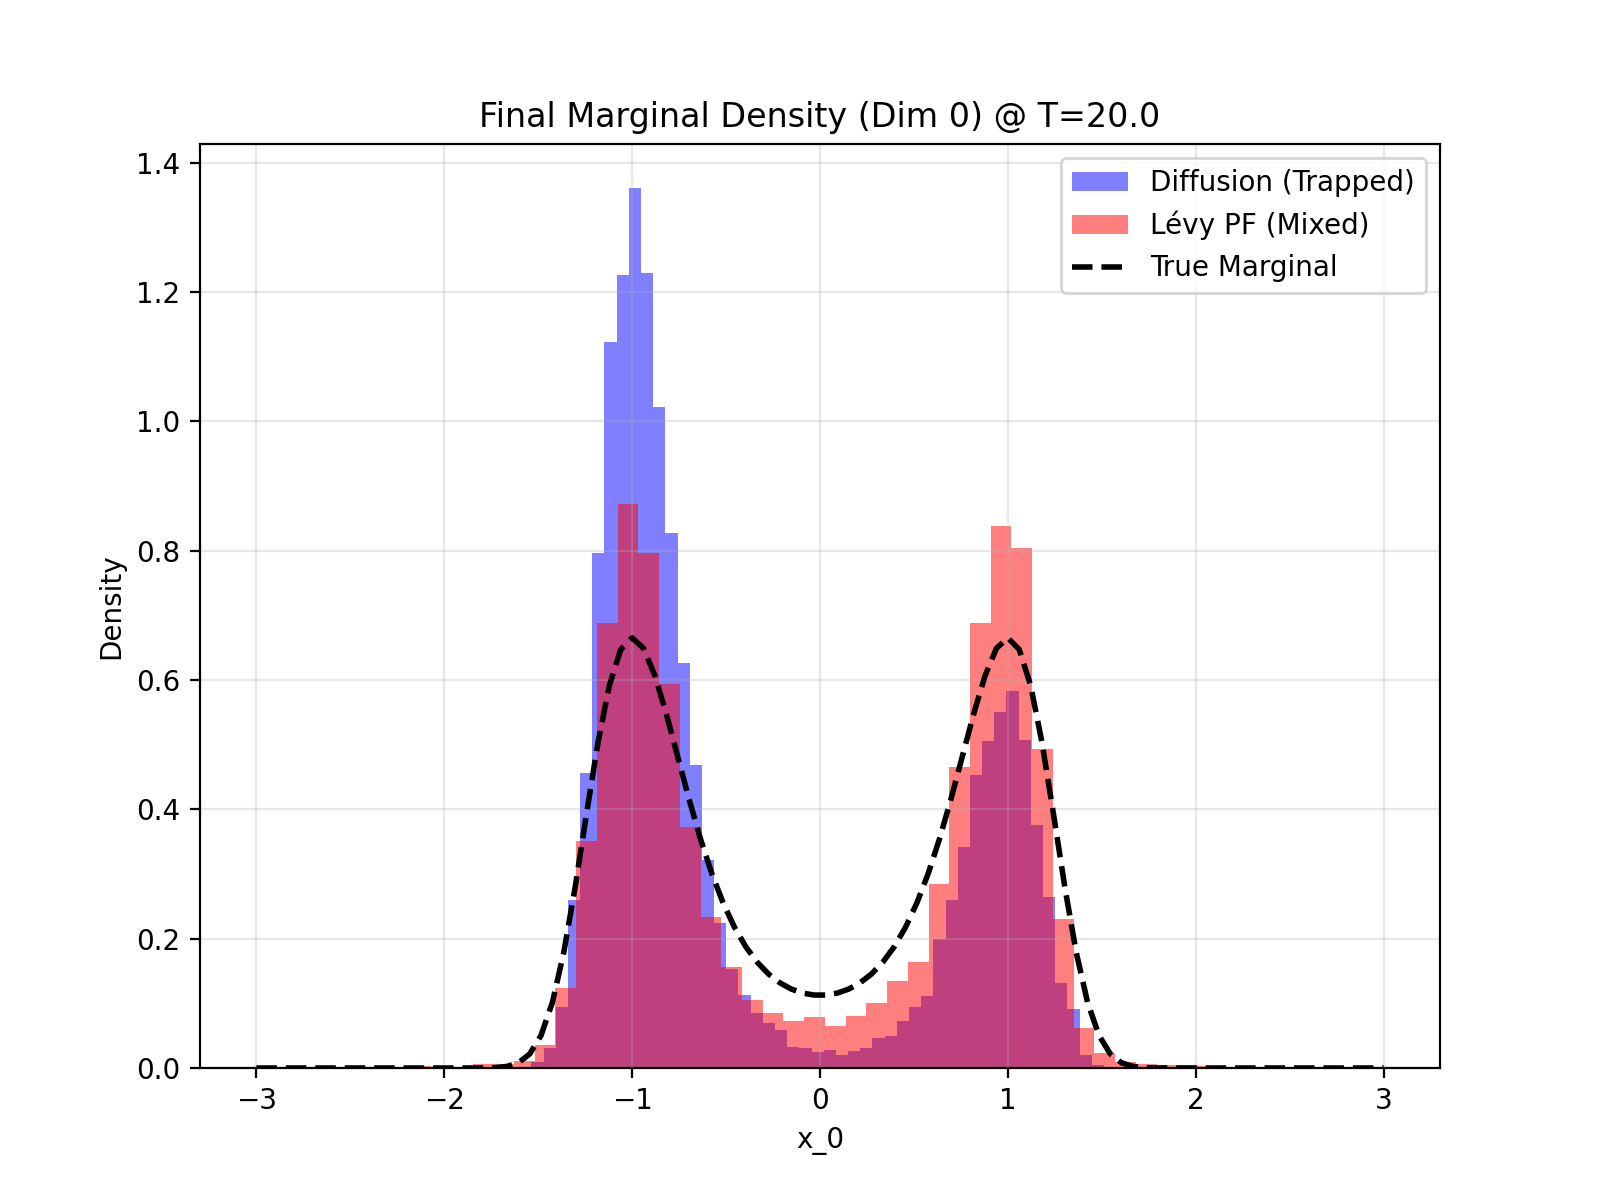
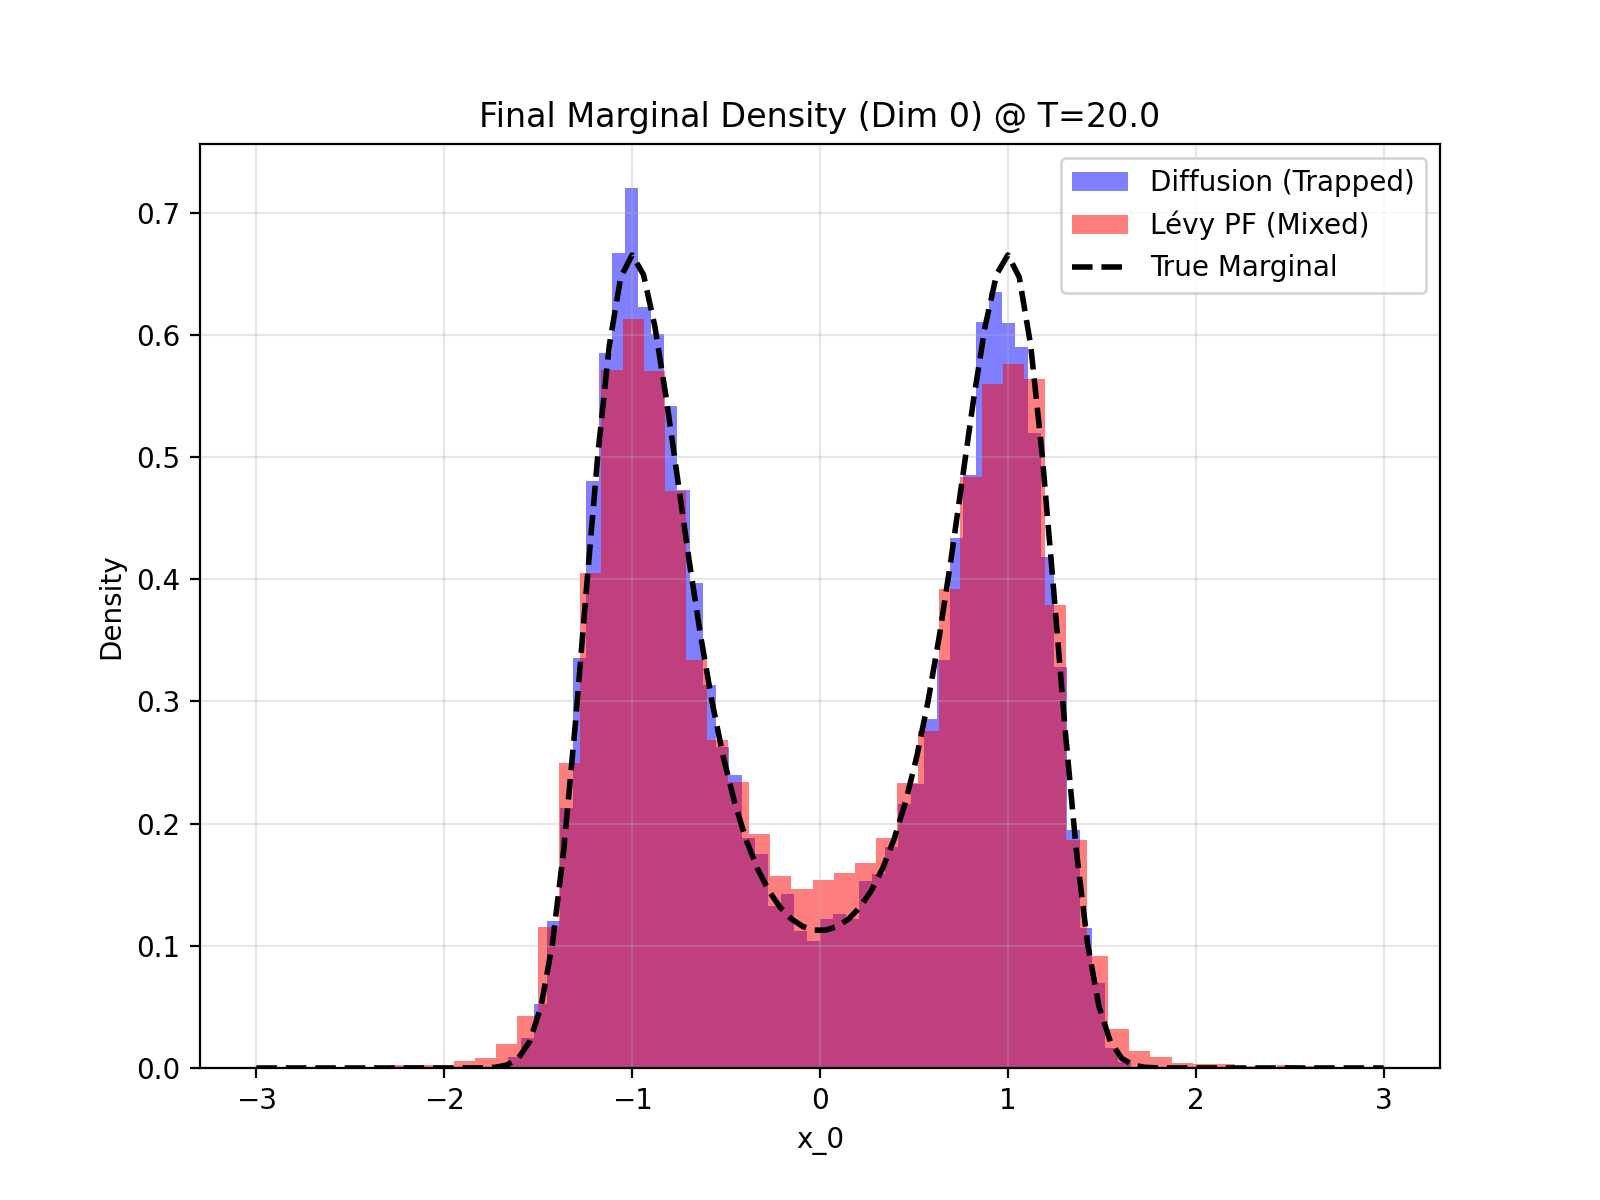
revise highdim

diff --git a/high_dim.py b/high_dim.py
@@ -25,6 +25,10 @@ def V_high_dim(X):
 def gradV_high_dim(X):
     return 4.0 * X * (X**2 - 1.0)
 
+def score_high_dim(X, eps):
+    # Score of target pi(x) ∝ exp(-V/eps^2)
+    return -gradV_high_dim(X) / (eps**2)
+
 # ============================================================
 # 2. Reference Sampler (Ground Truth)
 # ============================================================
@@ -116,26 +120,19 @@ def compute_marginal_errors(X, dim_idx, true_x, true_pdf):
 # ============================================================
 
 def step_diff(X, dt, eps, rng):
-    grad = gradV_high_dim(X)
+    # Score-based drift: b = (eps^2 / 2) * grad log pi, pi ∝ exp(-V/eps^2)
+    score = score_high_dim(X, eps)
+    drift = 0.5 * (eps**2) * score
     
-    # Taming (Prevent explosion)
-    norm_grad = np.linalg.norm(grad, axis=1, keepdims=True)
-    drift = -grad / (1.0 + dt * norm_grad) # Tamed Drift
-    
-    # Euler-Maruyama: dX = -gradV dt + sqrt(2)*eps*dW
-    # Note: Using sqrt(2) for standard Langevin dynamics scaling if we want pi ~ exp(-V/eps^2)
-    # If the equation is dX = -gradV dt + eps*dW, then pi ~ exp(-2V/eps^2)
-    # Let's stick to the convention in your previous code: eps * noise
+    # Euler-Maruyama: dX = b dt + eps dW
     noise = eps * np.sqrt(dt) * rng.standard_normal(X.shape)
     
     return X + drift * dt + noise
 
 def step_levy(X, dt, eps, rng, lam, sigma_L):
-    grad = gradV_high_dim(X)
-    
-    # 1. Diffusion Step (Same as above)
-    norm_grad = np.linalg.norm(grad, axis=1, keepdims=True)
-    drift = -grad / (1.0 + dt * norm_grad)
+    # 1. Diffusion Step (Score-based drift)
+    score = score_high_dim(X, eps)
+    drift = 0.5 * (eps**2) * score
     noise = eps * np.sqrt(dt) * rng.standard_normal(X.shape)
     X_new = X + drift * dt + noise
     
